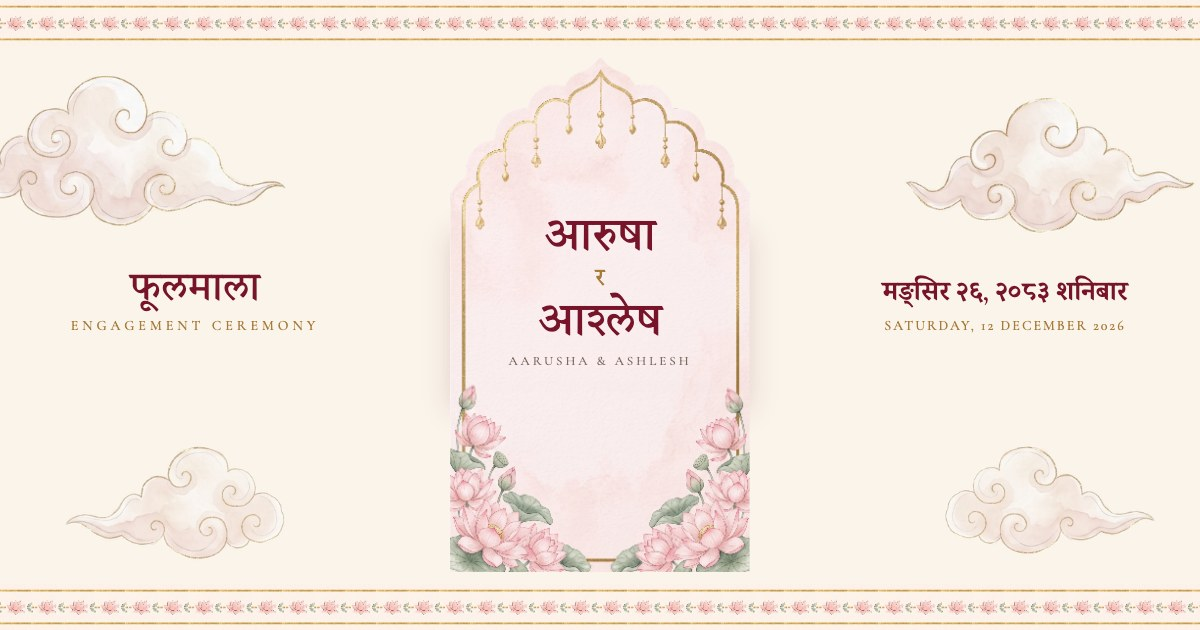
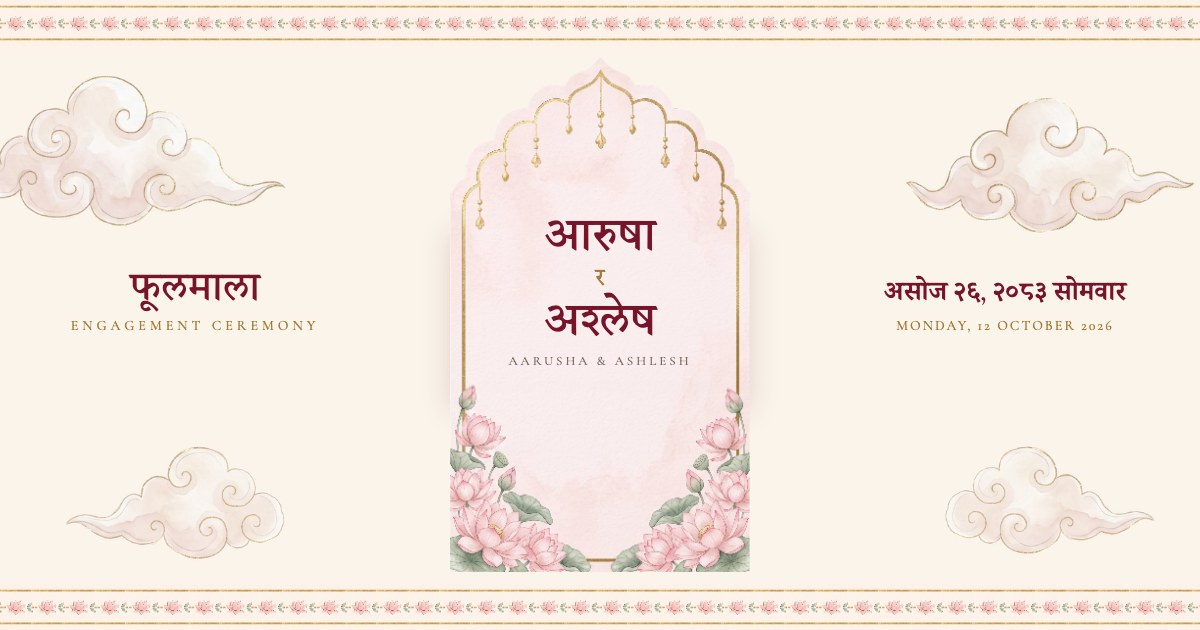
Nepali/English toggle (one language at a time, ?lang=en, remembered); refresh link preview

Changed region(s): [[0.74, 0.4222, 0.9558, 0.4825], [0.4317, 0.4524, 0.555, 0.5429], [0.74, 0.5127, 0.925, 0.5429]]

diff --git a/src/components/Sections.tsx b/src/components/Sections.tsx
@@ -6,6 +6,7 @@ import maroonBottom from '../assets/frame/maroon-bottom.webp'
 import maroonMid from '../assets/frame/maroon-mid.webp'
 import maroonTop from '../assets/frame/maroon-top.webp'
 import { invite } from '../content'
+import { useLang, type Pair } from '../lib/lang'
 import { Band, Cloud, Divider } from './Ornaments'
 
 function Section({ children, className = '' }: { children: ReactNode; className?: string }) {
@@ -16,21 +17,18 @@ function Section({ children, className = '' }: { children: ReactNode; className?
   )
 }
 
-function Heading({ np, en }: { np: string; en: string }) {
+function Heading({ text }: { text: Pair }) {
+  const { t } = useLang()
   return (
     <div data-reveal className="mb-10 flex flex-col items-center">
-      <h2 className="font-display text-3xl text-maroon sm:text-4xl">{np}</h2>
-      <p className="mt-1 text-xs tracking-[0.3em] text-gold uppercase">{en}</p>
+      <h2 className="font-display text-3xl text-maroon sm:text-4xl">{t(text)}</h2>
       <Divider className="mt-4" />
     </div>
   )
 }
 
-function Sub({ children }: { children: ReactNode }) {
-  return children ? <p className="text-sm text-ink/55">{children}</p> : null
-}
-
 export function Hero() {
+  const { t } = useLang()
   return (
     <header className="relative min-h-svh overflow-hidden pb-16">
       <Band />
@@ -52,75 +50,51 @@ export function Hero() {
       >
         <div className="arch-card absolute inset-0 -z-10" />
         <p data-reveal className="font-display text-base text-maroon">{invite.invocation}</p>
-        <p data-reveal className="mt-2 font-display text-2xl text-lotus">{invite.occasion.np}</p>
-        <p data-reveal className="text-[10px] tracking-[0.3em] text-gold uppercase">{invite.occasion.en}</p>
+        <p data-reveal className="mt-2 font-display text-2xl text-lotus">{t(invite.occasion)}</p>
 
         <h1 data-reveal className="mt-6 font-display text-4xl leading-tight text-maroon sm:text-5xl">
-          {invite.partnerOne.np}
-          <span className="block text-2xl text-gold">{invite.and.np}</span>
-          {invite.partnerTwo.np}
+          {t(invite.partnerOne)}
+          <span className="block text-2xl text-gold">{t(invite.and)}</span>
+          {t(invite.partnerTwo)}
         </h1>
-        <p data-reveal className="mt-2 text-xs tracking-widest text-ink/60 uppercase">
-          {invite.partnerOne.en} {invite.and.en} {invite.partnerTwo.en}
-        </p>
 
         <Divider className="my-5" />
-        <p data-reveal className="text-sm leading-relaxed text-ink/80">{invite.blessing.np}</p>
-        <div data-reveal className="mt-1">
-          <Sub>{invite.blessing.en}</Sub>
-        </div>
-
-        <p data-reveal className="mt-5 text-lg font-semibold text-maroon">{invite.dateLabel.np}</p>
-        <div data-reveal>
-          <Sub>{invite.dateLabel.en}</Sub>
-        </div>
+        <p data-reveal className="text-sm leading-relaxed text-ink/80">{t(invite.blessing)}</p>
+        <p data-reveal className="mt-5 text-lg font-semibold text-maroon">{t(invite.dateLabel)}</p>
       </div>
     </header>
   )
 }
 
-function Label({ np, en }: { np: string; en: string }) {
-  return (
-    <div className="mb-3">
-      <p className="text-sm text-gold">{np}</p>
-      {/* Letter-spacing only on the Latin line: it breaks up Devanagari conjuncts. */}
-      <p className="text-[10px] tracking-[0.25em] text-gold/80 uppercase">{en}</p>
-    </div>
-  )
+function Label({ text }: { text: Pair }) {
+  const { lang, t } = useLang()
+  // Letter-spacing only for Latin: it breaks up Devanagari conjuncts.
+  return <p className={`mb-3 text-gold ${lang === 'en' ? 'text-xs tracking-[0.25em] uppercase' : 'text-sm'}`}>{t(text)}</p>
 }
 
 // Date & time and venue side by side under one heading, map below.
 export function Details() {
+  const { t } = useLang()
   const { venue } = invite
   return (
     <Section className="max-w-none overflow-hidden bg-paper/40">
       <Cloud n={3} className="absolute top-10 -right-[12%] hidden w-[22vw] max-w-[18rem] opacity-70 lg:block" />
       <Cloud n={2} className="absolute bottom-16 -left-[10%] hidden w-[24vw] max-w-[20rem] opacity-70 [animation-delay:-6s] lg:block" />
       <div className="relative flex w-full max-w-2xl flex-col items-center">
-        <Heading {...invite.details.heading} />
+        <Heading text={invite.details.heading} />
 
         <div data-reveal className="grid w-full grid-cols-2 divide-x divide-gold/40 text-center">
           <div className="px-3 sm:px-6">
-            <Label {...invite.details.dateTimeLabel} />
-            <p className="text-base font-semibold text-maroon sm:text-lg">{invite.dateLabel.np}</p>
-            <p className="mt-1 text-sm text-ink/75">{invite.time.np}</p>
-            <div className="mt-2">
-              <Sub>
-                {invite.dateLabel.en}
-                <br />
-                {invite.time.en}
-              </Sub>
-            </div>
+            <Label text={invite.details.dateTimeLabel} />
+            <p className="text-base font-semibold text-maroon sm:text-lg">{t(invite.dateLabel)}</p>
+            <p className="mt-1 text-sm text-ink/75">{t(invite.time)}</p>
           </div>
           <div className="px-3 sm:px-6">
-            <Label {...invite.details.venueLabel} />
+            <Label text={invite.details.venueLabel} />
             <a href={venue.mapLink} target="_blank" rel="noreferrer" className="text-base font-semibold text-maroon sm:text-lg">
-              {venue.name}
+              {t(venue.name)}
             </a>
-            <p className="mt-1 text-sm text-ink/75">{venue.address}</p>
-            <div className="mt-2">
-              <Sub>{venue.en}</Sub>
-            </div>
+            <p className="mt-1 text-sm text-ink/75">{t(venue.address)}</p>
           </div>
         </div>
 
@@ -139,6 +113,7 @@ export function Details() {
 }
 
 export function Closing() {
+  const { t } = useLang()
   return (
     <footer className="relative overflow-hidden pt-16 text-center">
       <div
@@ -154,10 +129,8 @@ export function Closing() {
         }
       >
         <div className="maroon-card absolute inset-0 -z-10" />
-        <p data-reveal className="font-display text-lg leading-snug sm:text-2xl">{invite.closing.np}</p>
-        <p data-reveal className="mt-2 text-sm text-cream/65">{invite.closing.en}</p>
-        <p data-reveal className="mt-5 font-display text-base text-gold-light sm:text-xl">{invite.familyLine.np}</p>
-        <p data-reveal className="mt-1 text-sm text-cream/65">{invite.familyLine.en}</p>
+        <p data-reveal className="font-display text-lg leading-snug sm:text-2xl">{t(invite.closing)}</p>
+        <p data-reveal className="mt-5 font-display text-base text-gold-light sm:text-xl">{t(invite.familyLine)}</p>
       </div>
       <Band />
     </footer>

diff --git a/src/content.ts b/src/content.ts
@@ -1,18 +1,19 @@
 // ALL TEXT ON THE INVITE LIVES IN THIS FILE. Edit here; nothing else needs to change.
-// Pairs like { np, en }: `np` is the main Nepali line, `en` the small English line under it ('' hides it).
+// Pairs like { np, en }: guests see ONE language at a time (toggle at the top right; Nepali by default,
+// `?lang=en` in the link opens it in English). Write both versions of every pair.
 // Save the file and the page updates (npm run dev), or push to publish.
 
 export const invite = {
   // ── Page title & link preview (browser tab, WhatsApp/Messenger preview) ──────────────
   meta: {
-    title: 'आरुषा र आश्लेष · शुभ सगाई',
-    previewTitle: "आरुषा र आश्लेष · Aarusha & Ashlesh's Engagement",
+    title: 'आरुषा र अश्लेष · फूलमाला',
+    previewTitle: "आरुषा र अश्लेष · Aarusha & Ashlesh's Engagement",
     description: 'Join us as we celebrate the engagement of Aarusha & Ashlesh.',
     siteUrl: 'https://invite.ashleshpandey.com.np/',
   },
 
   // ── Opening envelope ───────────────────────────────────────────────────────────────
-  // Shown under the seal, followed by the invocation below.
+  // Sanskrit prayers: shown as written in both languages. Under the seal, then the invocation.
   shloka: ['वक्रतुण्ड महाकाय सूर्यकोटि समप्रभ ।', 'निर्विघ्नं कुरु मे देव सर्वकार्येषु सर्वदा ॥'],
   invocation: 'श्री गणेशाय नमः', // also shown at the top of the name card
   openLabel: 'Open invitation', // read out by screen readers for the seal button
@@ -20,7 +21,7 @@ export const invite = {
   // ── Name card ──────────────────────────────────────────────────────────────────────
   // Aarusha is named first everywhere (names, page title, link preview).
   partnerOne: { np: 'आरुषा', en: 'Aarusha' },
-  partnerTwo: { np: 'आश्लेष', en: 'Ashlesh' },
+  partnerTwo: { np: 'अश्लेष', en: 'Ashlesh' },
   and: { np: 'र', en: '&' }, // between the two names
   occasion: { np: 'फूलमाला', en: 'Engagement Ceremony' },
   blessing: {
@@ -38,9 +39,8 @@ export const invite = {
   dateLabel: { np: 'असोज २६, २०८३ सोमवार', en: 'Monday, 12 October 2026' },
   time: { np: 'दिउँसो २:०० बजे', en: '2:00 PM' },
   venue: {
-    name: 'अक्वाकुनो',
-    address: 'हात्तीगौंडा (खत्री गाउँ), काठमाडौं',
-    en: 'AquaKuno, Hattigauda (Khatri Gaun), Kathmandu, Nepal',
+    name: { np: 'अक्वाकुनो', en: 'AquaKuno' },
+    address: { np: 'हात्तीगौंडा (खत्री गाउँ), काठमाडौं', en: 'Hattigauda (Khatri Gaun), Kathmandu, Nepal' },
     // Google Maps → Share → Embed a map → copy the src="..." URL
     mapEmbedUrl:
       'https://www.google.com/maps/embed?pb=!1m18!1m12!1m3!1d3530.6050939221896!2d85.3416597!3d27.760323999999994!2m3!1f0!2f0!3f0!3m2!1i1024!2i768!4f13.1!3m3!1m2!1s0x39eb1f3d03bd1a5d%3A0xbc19213e48bac64!2sAquaKuno!5e0!3m2!1sen!2snp!4v1790441284980!5m2!1sen!2snp',

diff --git a/src/components/Lang.tsx b/src/components/Lang.tsx
@@ -1,0 +1,37 @@
+import { useEffect, useState, type ReactNode } from 'react'
+import { LANG_KEY, LangContext, initialLang, useLang, type Lang } from '../lib/lang'
+
+export function LangProvider({ children }: { children: ReactNode }) {
+  const [lang, setLangState] = useState<Lang>(initialLang)
+  const setLang = (l: Lang) => {
+    setLangState(l)
+    try {
+      localStorage.setItem(LANG_KEY, l)
+    } catch {
+      // not persisted; fine
+    }
+  }
+  useEffect(() => {
+    document.documentElement.lang = lang === 'en' ? 'en' : 'ne'
+  }, [lang])
+  return <LangContext.Provider value={{ lang, setLang }}>{children}</LangContext.Provider>
+}
+
+export function LangToggle() {
+  const { lang, setLang } = useLang()
+  const option = (l: Lang, label: string) => (
+    <button
+      onClick={() => setLang(l)}
+      aria-pressed={lang === l}
+      className={`rounded-full px-3 py-1 transition-colors ${lang === l ? 'bg-maroon text-cream' : 'text-maroon hover:bg-maroon/10'}`}
+    >
+      {label}
+    </button>
+  )
+  return (
+    <div className="fixed top-14 right-3 z-40 flex gap-1 rounded-full border border-gold/50 bg-cream/90 p-1 text-sm shadow-md shadow-maroon/10 backdrop-blur sm:top-[4.5rem] sm:right-5">
+      {option('np', 'नेपाली')}
+      {option('en', 'English')}
+    </div>
+  )
+}

diff --git a/src/lib/lang.ts b/src/lib/lang.ts
@@ -1,0 +1,26 @@
+import { createContext, useContext } from 'react'
+
+// Guests read the invite in one language at a time. Nepali by default; `?lang=en` opens it in English,
+// and the toggle (components/Lang.tsx) remembers the choice on this device.
+export type Lang = 'np' | 'en'
+export type Pair = { np: string; en: string }
+
+export const LANG_KEY = 'invite-lang'
+export const LangContext = createContext<{ lang: Lang; setLang: (l: Lang) => void }>({ lang: 'np', setLang: () => {} })
+
+export function initialLang(): Lang {
+  const fromUrl = new URLSearchParams(location.search).get('lang')
+  if (fromUrl === 'en' || fromUrl === 'np') return fromUrl
+  try {
+    const saved = localStorage.getItem(LANG_KEY)
+    if (saved === 'en' || saved === 'np') return saved
+  } catch {
+    // storage blocked (private mode): fall back to Nepali
+  }
+  return 'np'
+}
+
+export function useLang() {
+  const { lang, setLang } = useContext(LangContext)
+  return { lang, setLang, t: (p: Pair) => p[lang] }
+}

diff --git a/src/App.tsx b/src/App.tsx
@@ -2,6 +2,7 @@ import { useEffect, useRef, useState } from 'react'
 import { Intro } from './components/Intro'
 import { Petals } from './components/Petals'
 import { Closing, Details, Hero } from './components/Sections'
+import { LangProvider, LangToggle } from './components/Lang'
 import { revealOnScroll, startSmoothScroll } from './lib/motion'
 
 export default function App() {
@@ -21,14 +22,15 @@ export default function App() {
   }, [opened])
 
   return (
-    <>
+    <LangProvider>
       {!opened && <Intro onOpen={() => setOpened(true)} />}
       {opened && <Petals />}
+      {opened && <LangToggle />}
       <main ref={main} className={opened ? '' : 'h-svh overflow-hidden'}>
         <Hero />
         <Details />
         <Closing />
       </main>
-    </>
+    </LangProvider>
   )
 }
